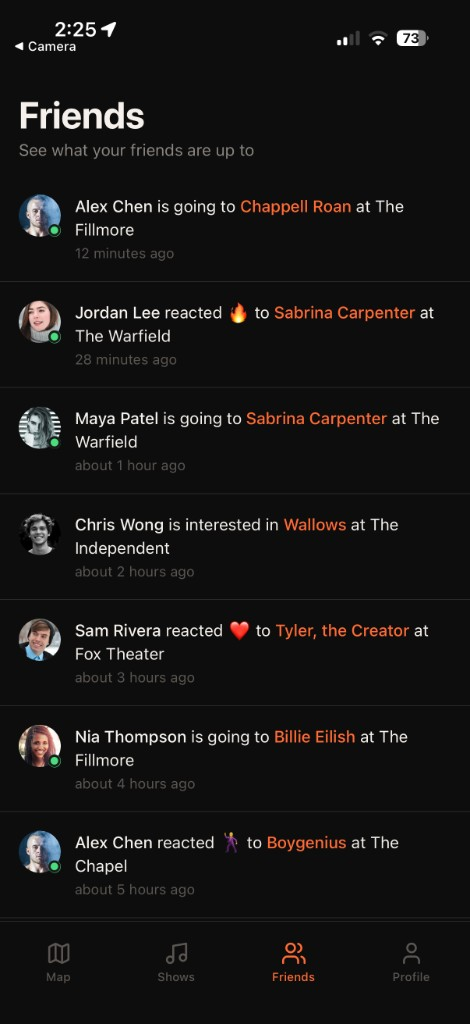
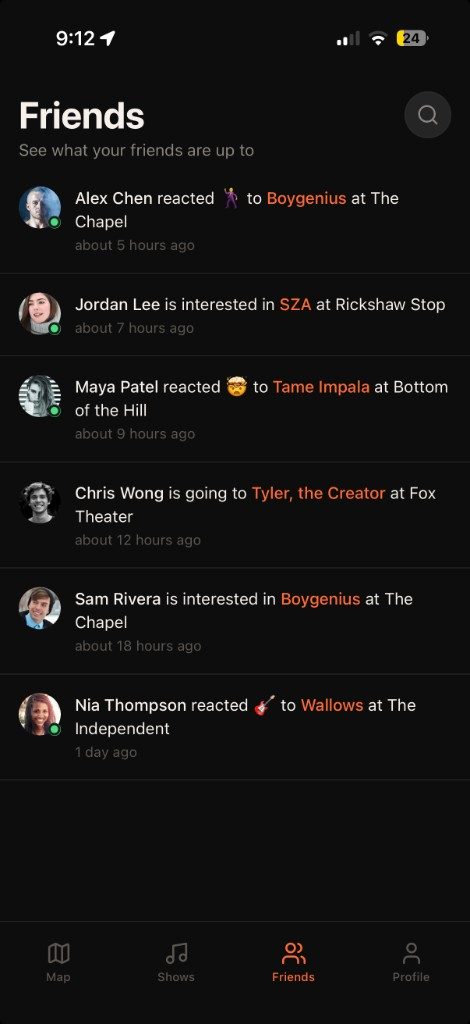
update friends section pictures + readme

diff --git a/README.md b/README.md
@@ -24,9 +24,10 @@ ShowUp starts from that experience. The default screen is a map. Venues pulse wh
 <p align="center">
   <img src="docs/screenshots/show-detail-bottom.png" width="200" alt="Show Detail - Reactions" />
   <img src="docs/screenshots/friends.png" width="200" alt="Friends Activity" />
-  <img src="docs/screenshots/profile.png" width="200" alt="Profile" />
+  <img src="docs/screenshots/user-profile.png" width="200" alt="User Profile" />
 </p>
 <p align="center">
+  <img src="docs/screenshots/profile.png" width="200" alt="Profile" />
   <img src="docs/screenshots/settings-top.png" width="200" alt="Settings" />
   <img src="docs/screenshots/settings-bottom.png" width="200" alt="Settings - Privacy & App" />
 </p>
